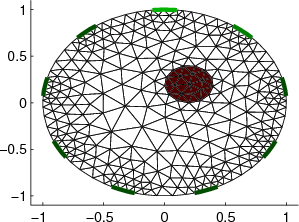
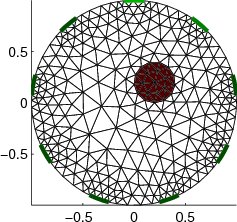
modifications for the colourbar
git-svn-id: svn+ssh://svn.code.sf.net/p/eidors3d/code/trunk@3791 82006732-fb7e-4a22-9f28-86a212cce563

diff --git a/htdocs/tutorial/netgen/netgen_sims02.m b/htdocs/tutorial/netgen/netgen_sims02.m
@@ -16,14 +16,16 @@ vh = fwd_solve(img);
 imgn = rmfield(img,'elem_data');
 imgn.node_data = vh.volt(:,1);
 
+h1= subplot(221);
 show_fem(imgn);
-print_convert netgen_sims02a.png '-density 100'
 
 % Show Voltage for stim pattern #2
 imgn = rmfield(img,'elem_data');
 imgn.node_data = vh.volt(:,2);
 
-imgn.calc_colours.cb_shrink_move = [0.5,0.8,.02];
+h2= subplot(222);
+show_fem(imgn);
 
-show_fem(imgn,1);
-print_convert netgen_sims02b.png '-density 100'
+imgn.calc_colours.cb_shrink_move = [0.5,0.8,-.02];
+common_colourbar([h1,h2],imgn);
+print_convert netgen_sims02a.png '-density 100'
